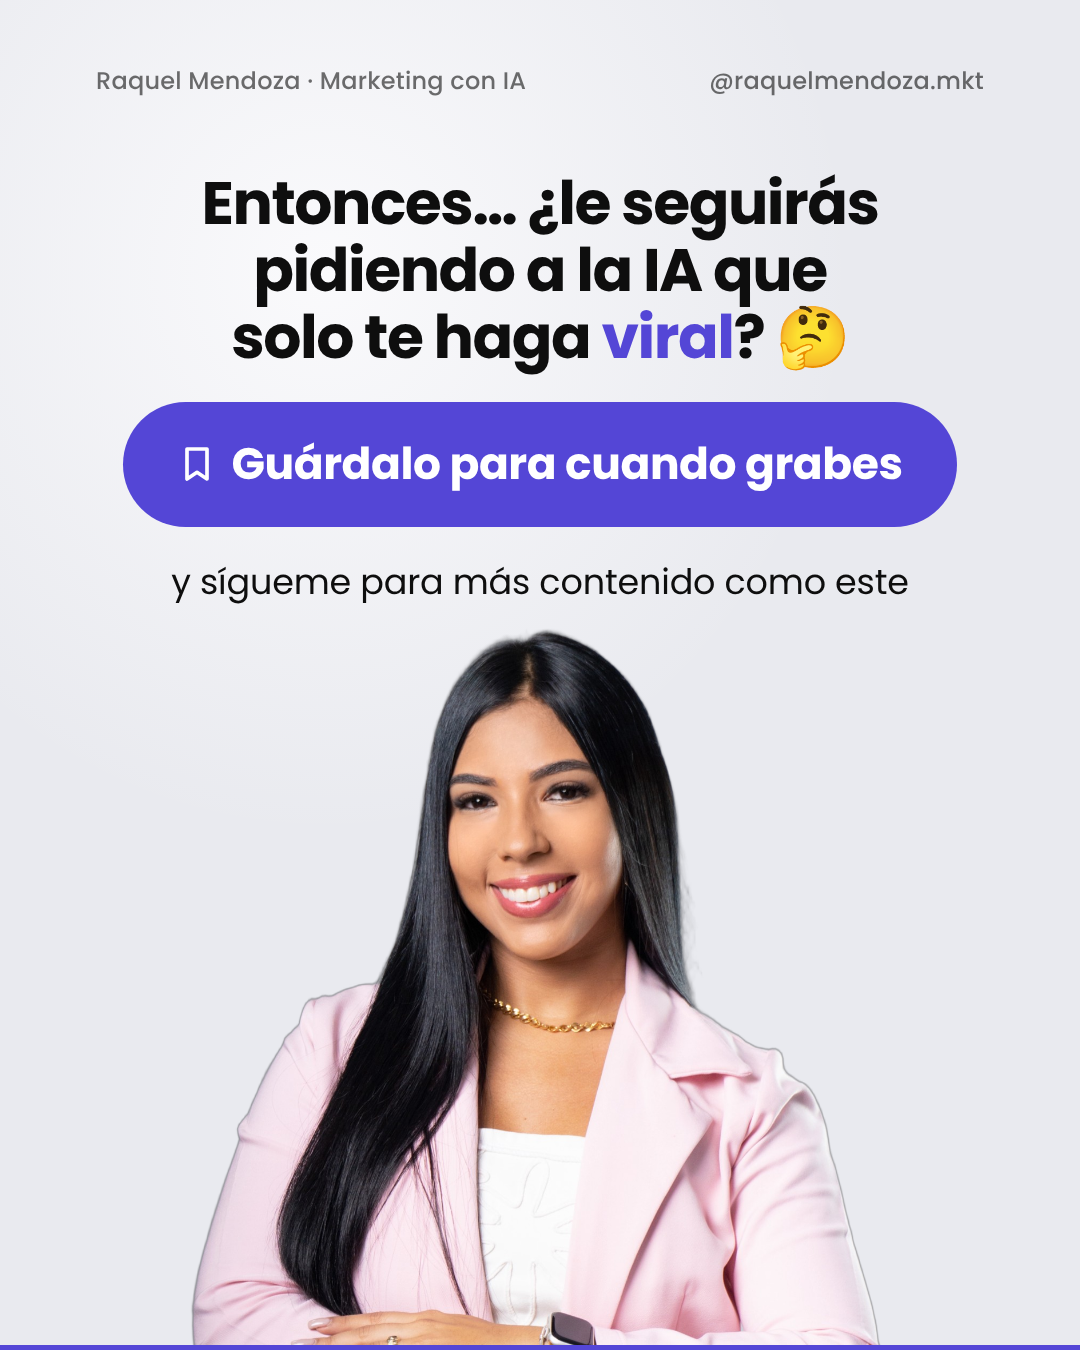
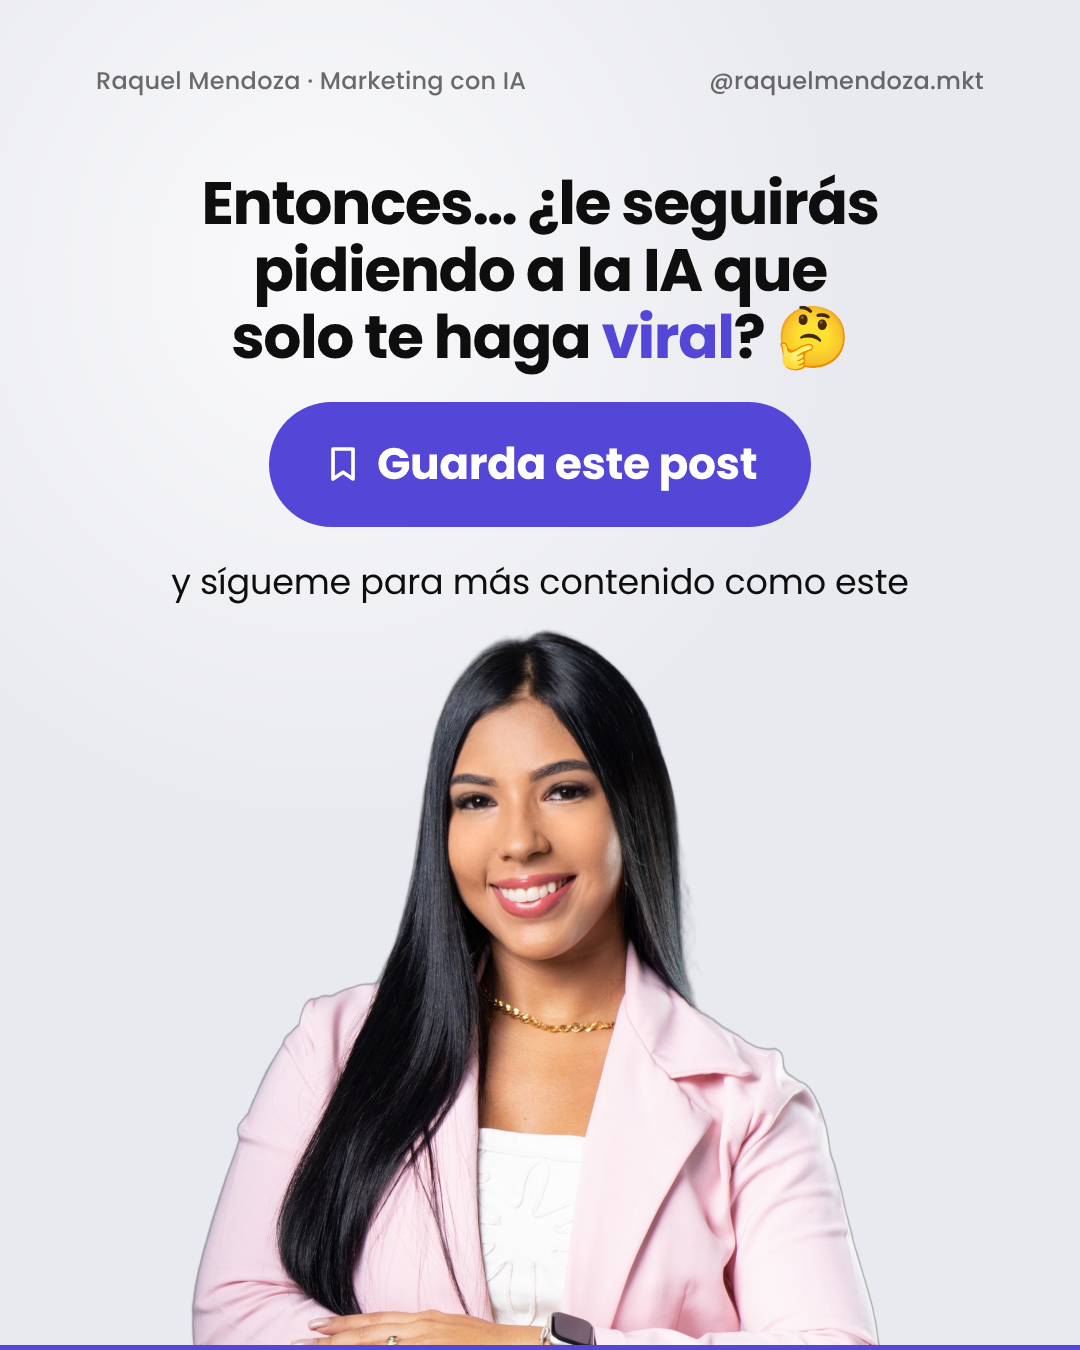
Carrusel video viral: «Guarda este post» en el cierre y rol «Actúa como…» en los prompts
Claude-Session: https://claude.ai/code/session_01Ej8Qu3LQLaQzy4gu2zPZyZ

Changed region(s): [[0.0917, 0.28, 0.8861, 0.4044]]

diff --git a/carruseles/proyectos/03-ia-video-viral/carrusel.html b/carruseles/proyectos/03-ia-video-viral/carrusel.html
@@ -105,7 +105,7 @@
       <div class="chat">
         <div class="bar"><i></i><i></i><i></i><span>Nuevo chat</span></div>
         <div class="body-chat">
-          <div class="msg">Analiza estos videos y dime: <b>qué ángulos de grabación</b> usaron, <b>cómo está estructurado</b> cada uno, <b>cuál fue el look</b> y <b>por qué retuvo la atención</b>.</div>
+          <div class="msg"><b>Actúa como un estratega de contenido experto en videos virales.</b><br>Analiza estos videos y dime: <b>qué ángulos de grabación</b> usaron, <b>cómo está estructurado</b> cada uno, <b>cuál fue el look</b> y <b>por qué retuvo la atención</b>.</div>
         </div>
         <div class="input">Escribe un mensaje…<b><svg viewBox="0 0 24 24" fill="none" stroke="#fff" stroke-width="2.4" stroke-linecap="round" stroke-linejoin="round"><path d="M12 19V5M5 12l7-7 7 7"/></svg></b></div>
       </div>
@@ -120,7 +120,7 @@
       <div class="chat">
         <div class="bar"><i></i><i></i><i></i><span>Nuevo chat</span></div>
         <div class="body-chat">
-          <div class="msg">Este es mi negocio: <b>[qué haces y a quién ayudas]</b>. Estoy en <b>[tu ciudad]</b>. ¿Cómo adapto ese contenido a mi marca para crear algo similar?</div>
+          <div class="msg"><b>Actúa como un estratega de marketing experto en mi nicho.</b><br>Este es mi negocio: <b>[qué haces y a quién ayudas]</b>. Estoy en <b>[tu ciudad]</b>. ¿Cómo adapto ese contenido a mi marca para crear algo similar?</div>
         </div>
         <div class="input">Escribe un mensaje…<b><svg viewBox="0 0 24 24" fill="none" stroke="#fff" stroke-width="2.4" stroke-linecap="round" stroke-linejoin="round"><path d="M12 19V5M5 12l7-7 7 7"/></svg></b></div>
       </div>
@@ -141,7 +141,7 @@
     <div class="cutout" style="left:50%;transform:translateX(-50%);width:700px;bottom:-470px"><img src="../../recursos/raquel-6092-recorte.png" alt=""></div>
     <div class="content top center" style="top:170px;gap:30px">
       <h2 class="h2">Entonces… ¿le seguirás pidiendo a la IA que solo te haga <span class="c">viral</span>? 🤔</h2>
-      <span class="pill"><svg viewBox="0 0 24 24" width="40" height="40" fill="none" stroke="#fff" stroke-width="2.2" stroke-linejoin="round"><path d="M6 3h12v18l-6-4-6 4z"/></svg>Guárdalo para cuando grabes</span>
+      <span class="pill"><svg viewBox="0 0 24 24" width="40" height="40" fill="none" stroke="#fff" stroke-width="2.2" stroke-linejoin="round"><path d="M6 3h12v18l-6-4-6 4z"/></svg>Guarda este post</span>
       <p class="body" style="color:var(--fg)">y sígueme para más contenido como este</p>
     </div>
   </section>
